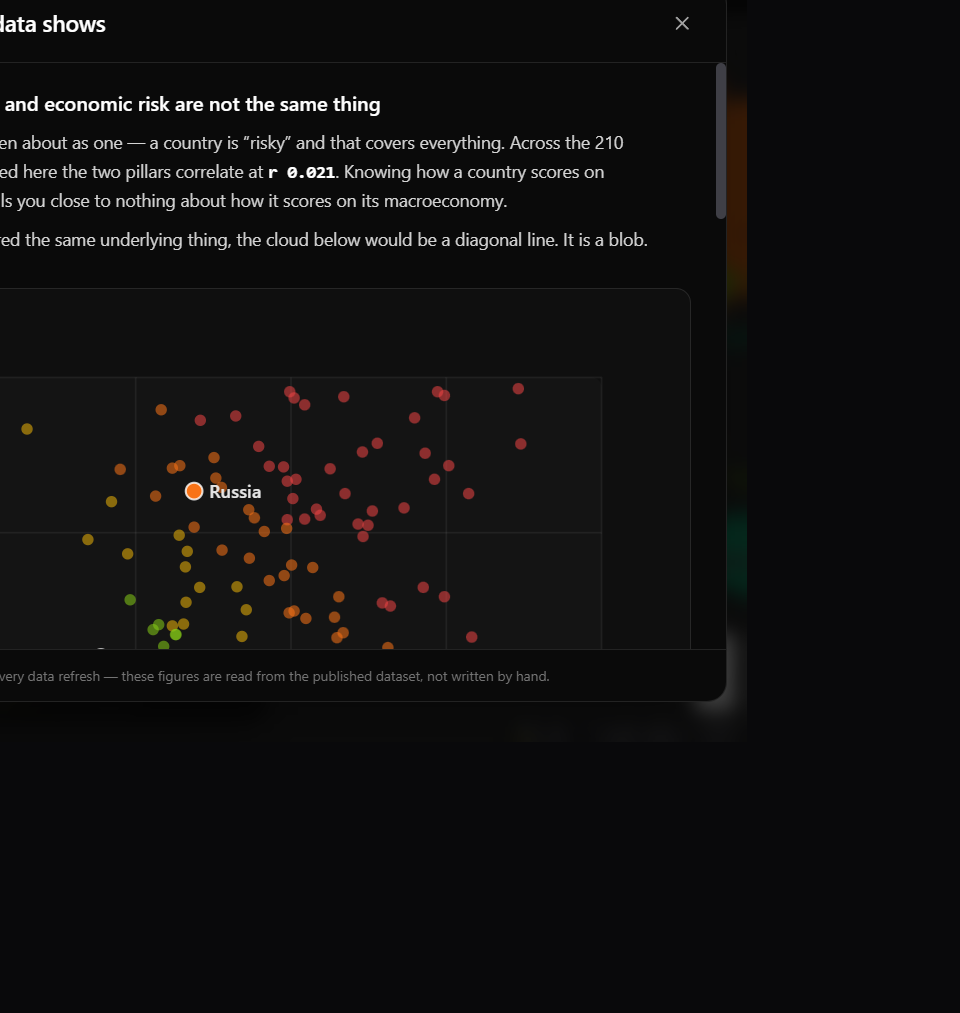
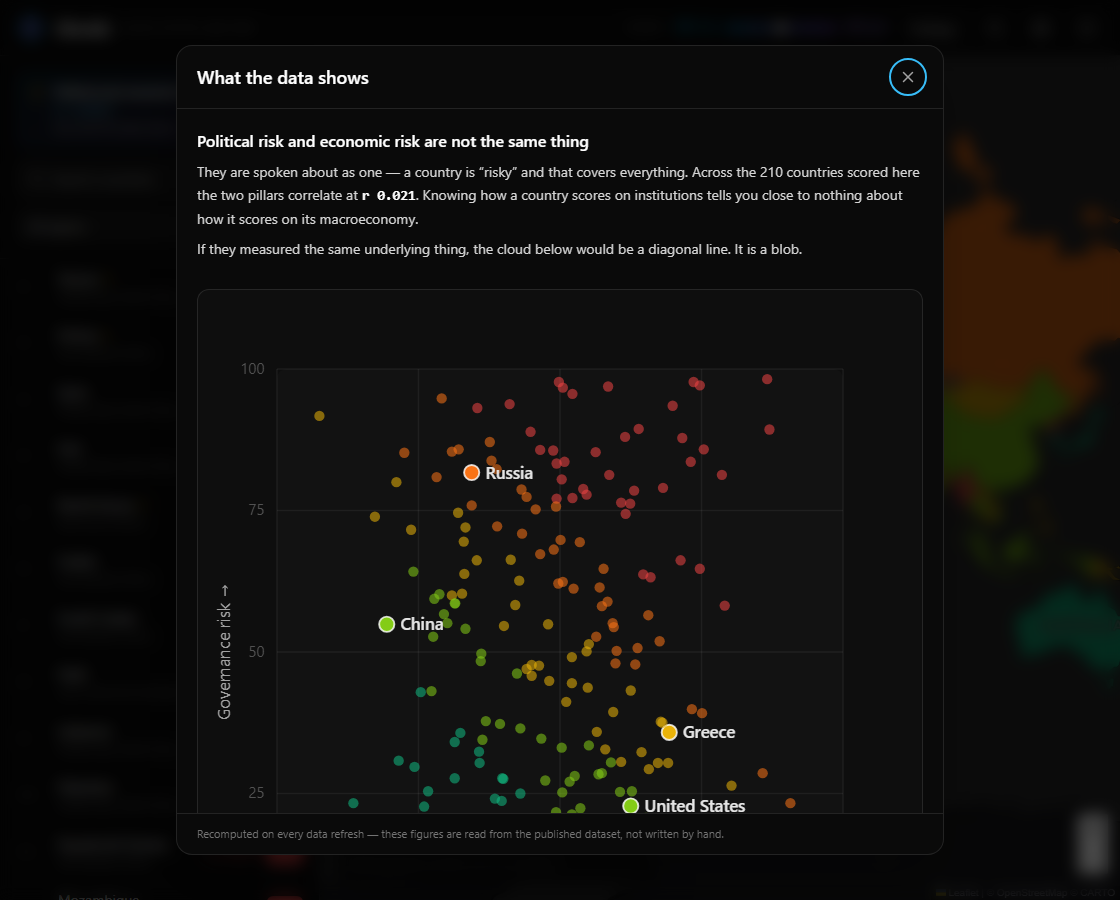
Refresh the screenshots and show the findings view in the README

diff --git a/README.md b/README.md
@@ -42,8 +42,11 @@ answer — the header has a slider, so the weighting is a choice the reader make
 and watches take effect, not an assumption buried in the code.
 
 The site puts that argument in front of the reader rather than in a footnote:
-**Findings** plots every country on the two pillars, and if they measured the
-same thing the cloud would be a line.
+[**Findings**](https://zeynepdorukk.github.io/Glorisk/?view=findings) plots every
+country on the two pillars, and if they measured the same thing the cloud would
+be a line.
+
+![The findings view: economic risk against governance risk](docs/screenshot-findings.png)
 
 ## Does any of it hold up?
 
@@ -199,7 +202,10 @@ half-empty map.
 
 - Selection, band filter and pillar blend all live in the URL:
   [`?c=TUR&w=70`](https://zeynepdorukk.github.io/Glorisk/?c=TUR&w=70) is a
-  shareable view.
+  shareable view, and so is
+  [`?view=findings`](https://zeynepdorukk.github.io/Glorisk/?view=findings).
+  Dialogs replace rather than push history, so Back leaves the site instead of
+  reopening a panel.
 - `Ctrl`/`Cmd` + `K` or `/` opens a command palette; prefix matches rank above
   substring matches, so "turk" finds Türkiye before Turkmenistan.
 - The choropleth sits on a CARTO dark basemap with place labels in a **pane above
